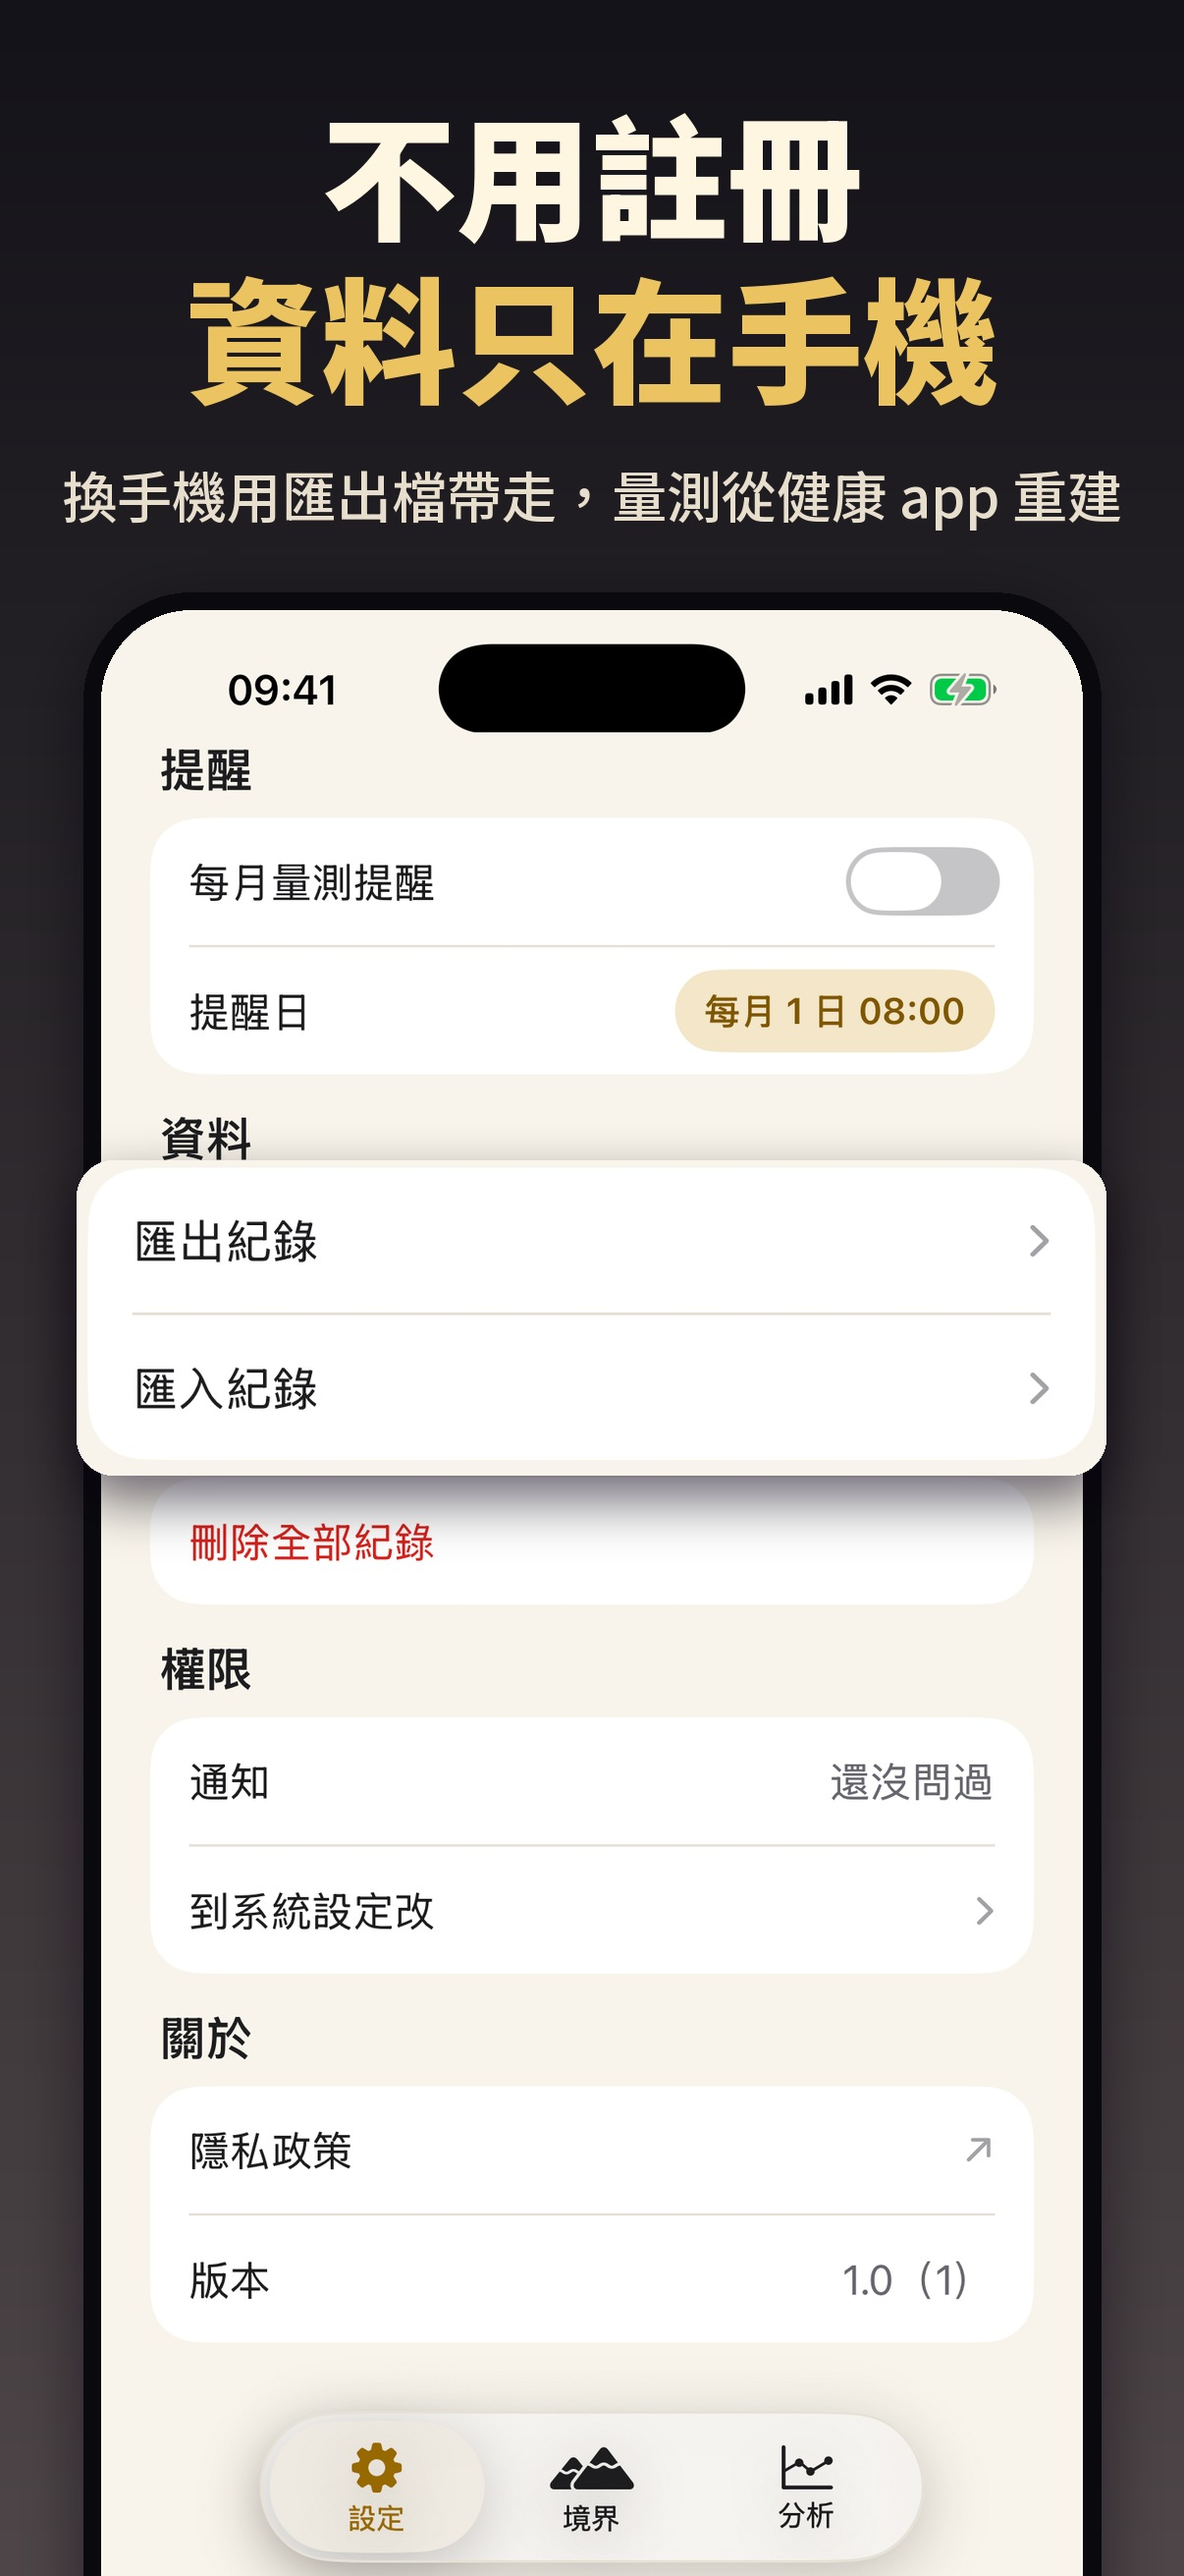
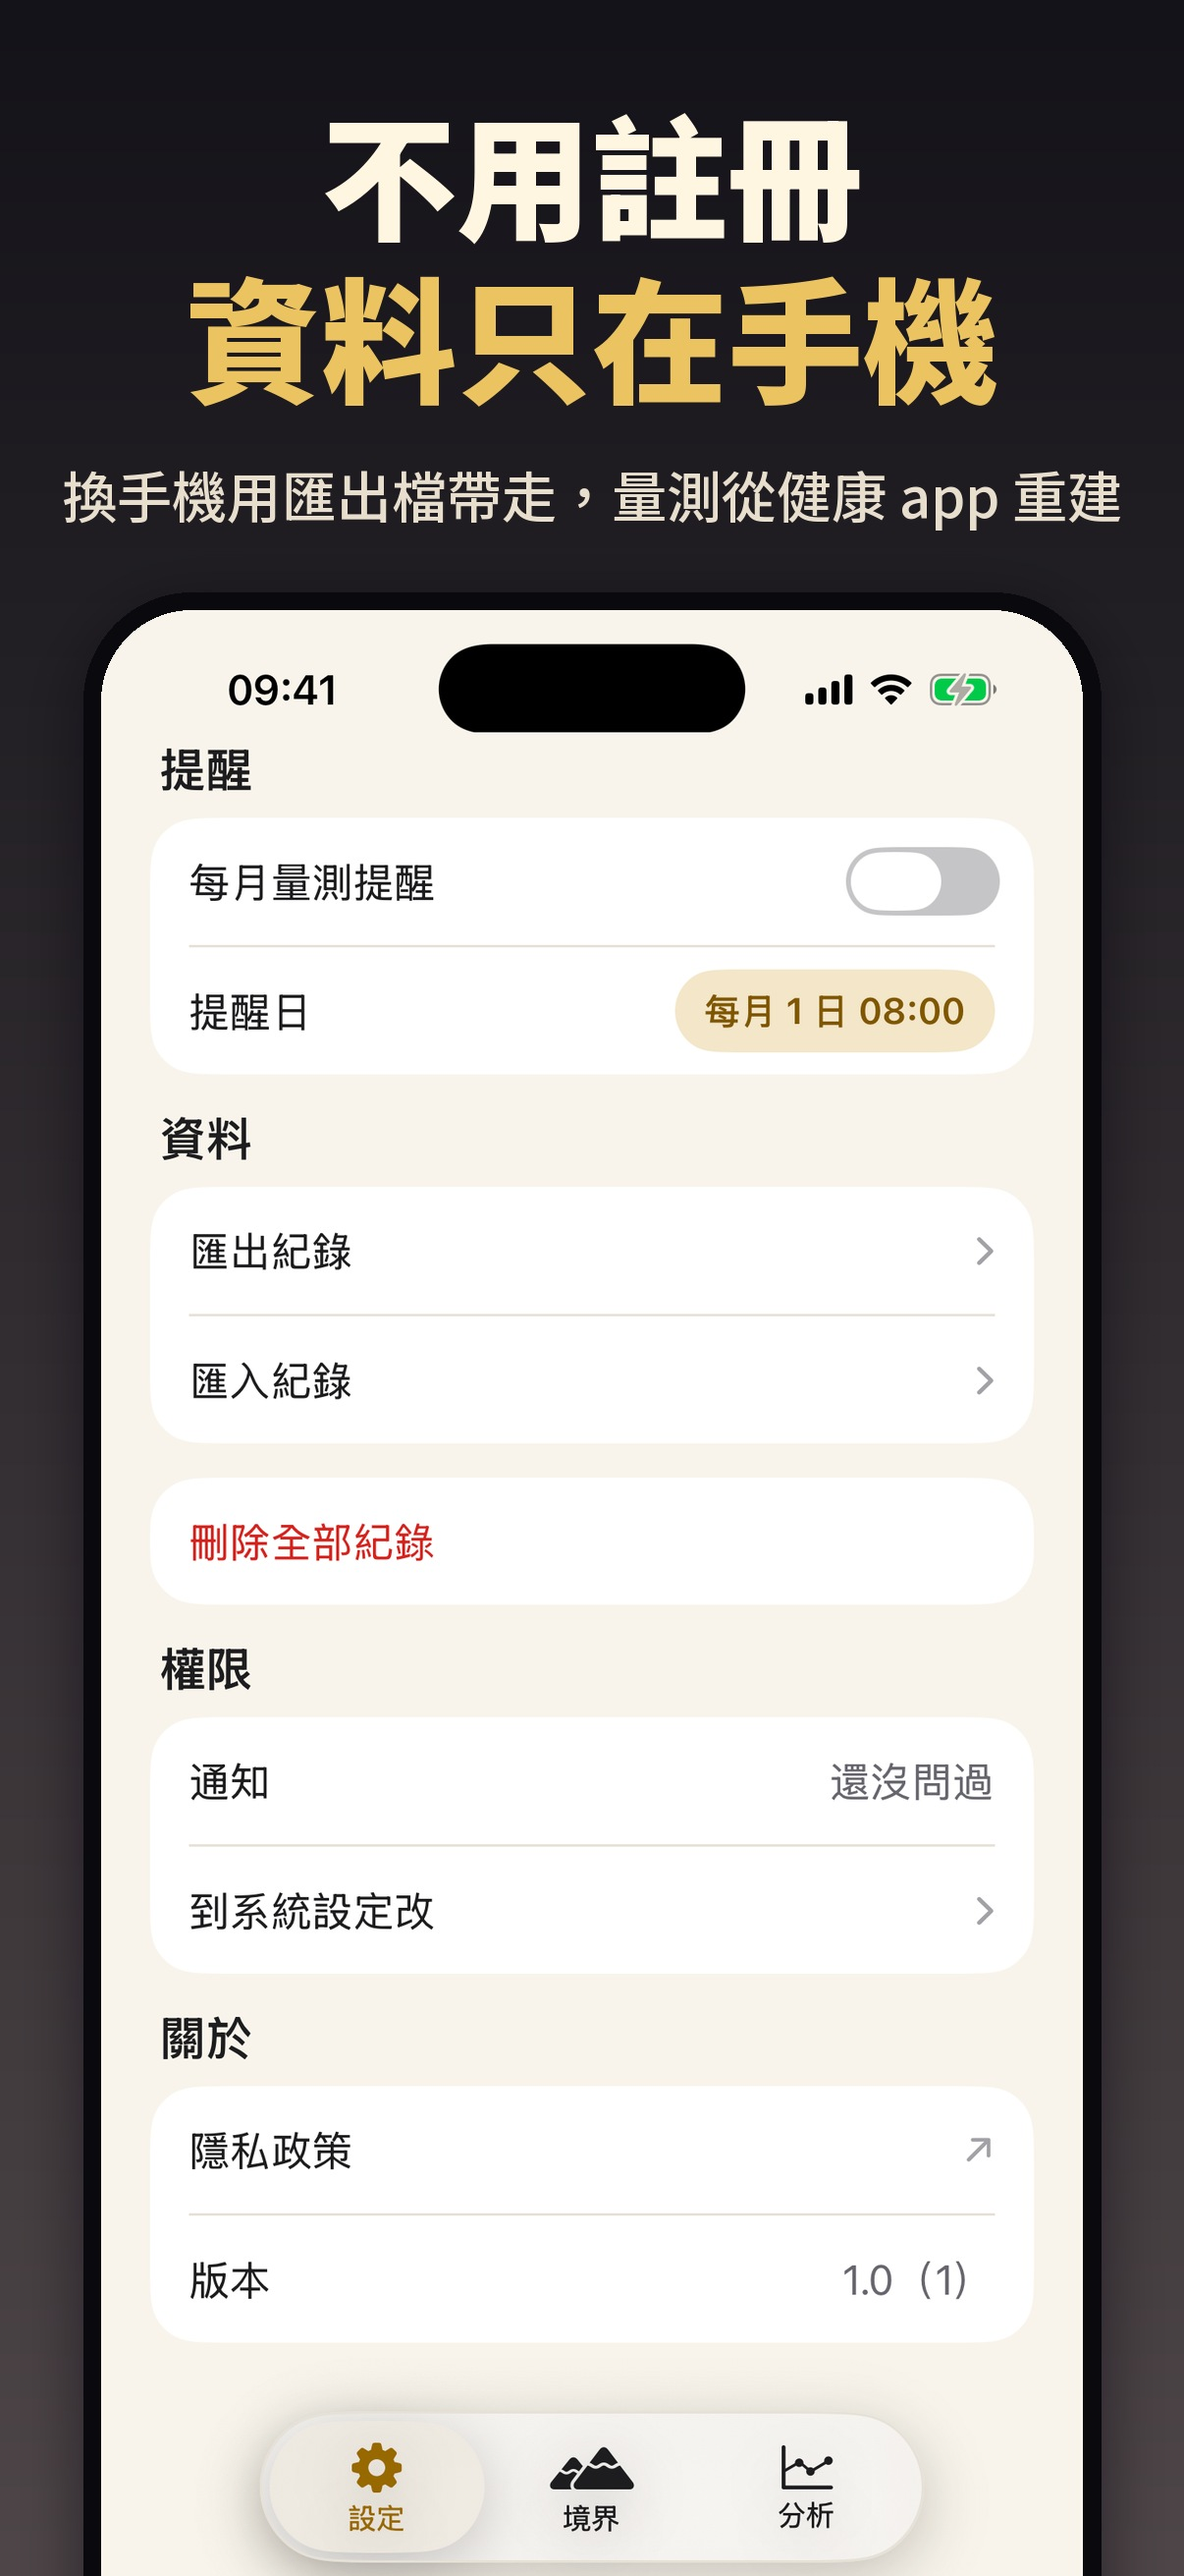
[上架] 截圖第二輪：浮出只留第 3、4 張，第 1 張手機縮小露出境界名，第 2 張兩側畫震動波浪

Changed region(s): [[0.0614, 0.4325, 0.9511, 0.6178], [0.1227, 0.4634, 0.3068, 0.4943]]

diff --git a/.vibe/tools/store_shots.py b/.vibe/tools/store_shots.py
@@ -31,25 +31,24 @@ SIZES = {"6.3": (1206, 2622), "6.9": (1320, 2868)}
 PAID = "付費造型"
 
 # name 檔名｜raw 真機截圖｜title 大標（兩行，第二行金色）｜sub 描述句｜badge 小標｜top 手機上緣（1206 寬時的 y）
-# 2026-11-27 多米說太醜、重點不凸顯（參考茄記、蒜日子、豆鍵）：每張除了慶祝都用 pop 把要講的那塊放大浮出來
+# 2026-11-27 多米說太醜、重點不凸顯（參考茄記、蒜日子、豆鍵）。第二輪他說不用每張都浮，必要的就好：
+# 只留第 3、4 張（標題講的就是那個數字）。第 1 張手機縮小露出境界名那行字；第 2 張兩側畫震動波浪
+# phone 手機畫面多寬（1206 寬時，預設 1000）｜shake 手機兩側畫震動波浪，值是波浪中心的 y（1206 寬時）
 # pop 把截圖裡的一塊放大、跳出手機外：(x0, y0, x1, y1, 倍率, 圓角)，座標是真機截圖上的像素｜ring 圈出一顆鈕 (x, y, 半徑)
 SHOTS = [
     dict(name="01-realm", raw="1-realm.png", hero=True, title=["練到哪一境"], sub="量一次就知道",
-         pills=["不用註冊", "男女各一套標準", "健康 app 自動帶入"]),
+         pills=["不用註冊", "男女各一套標準", "健康 app 自動帶入"], phone=860),
     dict(name="02-celebration", raw="2-celebration.png", title=["突破那一刻", "手機會震一下"],
-         sub="第一次入道、升一期、跨大境界，都有全螢幕慶祝"),
+         sub="第一次入道、升一期、跨大境界，都有全螢幕慶祝",
+         phone=880, shake=1150),
     dict(name="03-next", raw="3-next-stage.png", title=["下一期", "還差幾公斤肌肉"], sub="用身高校正過的 FFMI 算，不只看體重",
          pop=(48, 750, 1158, 1050, 1.14, 40)),
     dict(name="04-unstable", raw="5-unstable.png", title=["體脂還偏高", "照樣算給你看"], sub="標「根基不穩」，告訴你還差幾 % 就生效",
          pop=(48, 1490, 1158, 1772, 1.14, 40)),
-    dict(name="05-log", raw="6-log-lift.png", title=["練完記四格", "不用填一堆"], sub="功法、重量、次數、組數，記完就算等級",
-         pop=(48, 1900, 1158, 2100, 1.16, 40)),
-    dict(name="06-moves", raw="7-moves.png", title=["十二門功法", "各有等級"], sub="深蹲叫坐馬樁、硬舉叫拔山式，從未入門練到化境",
-         pop=(50, 1625, 595, 2200, 1.4, 48)),
-    dict(name="07-data", raw="8-data.png", title=["不用註冊", "資料只在手機"], sub="換手機用匯出檔帶走，量測從健康 app 重建",
-         pop=(48, 700, 1158, 1040, 1.14, 40)),
-    dict(name="08-styles", raw="10-styles.png", title=["十一種造型", "換一種畫風"], sub="水墨、鎏金、青花瓷，境界碑和慶祝畫面跟著換",
-         pop=(48, 1582, 1158, 2032, 1.14, 40)),
+    dict(name="05-log", raw="6-log-lift.png", title=["練完記四格", "不用填一堆"], sub="功法、重量、次數、組數，記完就算等級"),
+    dict(name="06-moves", raw="7-moves.png", title=["十二門功法", "各有等級"], sub="深蹲叫坐馬樁、硬舉叫拔山式，從未入門練到化境"),
+    dict(name="07-data", raw="8-data.png", title=["不用註冊", "資料只在手機"], sub="換手機用匯出檔帶走，量測從健康 app 重建"),
+    dict(name="08-styles", raw="10-styles.png", title=["十一種造型", "換一種畫風"], sub="水墨、鎏金、青花瓷，境界碑和慶祝畫面跟著換"),
     # 2026-11-27 Apple 以 2.3.7 退件：截圖不能寫價格，「免費」「付費」也算。原本副標「原版免費。記錄、算境界全部免費，
     # 付費的只有造型」加一顆「付費造型」標，兩個都拿掉。要講免費請寫在描述裡（Apple 退件信建議的）。
 ]
@@ -127,7 +126,28 @@ def shadow(im, box, radius, blur, alpha=130, dy=18):
     return Image.alpha_composite(im.convert("RGBA"), sh.filter(ImageFilter.GaussianBlur(blur))).convert("RGB")
 
 
-def compose(size, raw, title, sub, badge=None, top=None, ring=None, pop=None, hero=False, pills=None, name=None):
+def waves(im, w, left, right, cy, k):
+    """手機兩側各三條直的波浪線，代表在震（多米給的參考是頸掛風扇兩側的藍色波浪）。內側那條最長。"""
+    import math
+    d = ImageDraw.Draw(im)
+    gap = (left - 0) / 4
+    for i, length in enumerate((300, 240, 180)):
+        for side in (-1, 1):
+            cx = left - gap * (i + 1) if side < 0 else right + gap * (i + 1)
+            pts = []
+            for j in range(61):
+                t = j / 60
+                yy = cy - length * k / 2 + t * length * k
+                xx = cx + 13 * k * math.sin(t * 2 * math.pi * length / 120)
+                pts.append((xx, yy))
+            d.line(pts, fill=GOLD, width=int(10 * k), joint="curve")
+            for px, py in (pts[0], pts[-1]):
+                rr = 5 * k
+                d.ellipse([px - rr, py - rr, px + rr, py + rr], fill=GOLD)
+
+
+def compose(size, raw, title, sub, badge=None, top=None, ring=None, pop=None, hero=False, pills=None, name=None,
+            phone=1000, shake=None):
     w, h = size
     k = w / 1206
     im = gradient(size)
@@ -161,7 +181,7 @@ def compose(size, raw, title, sub, badge=None, top=None, ring=None, pop=None, he
             y += 120 * k
         top = top or (y / k + 40)
     shot = Image.open(os.path.join(ROOT, RAW, raw)).convert("RGB")
-    sc = 1000 * k / shot.width            # 手機畫面放大到 1000 寬，底部出血
+    sc = phone * k / shot.width           # 手機畫面放大到 phone 寬（預設 1000），底部出血
     pw, ph = int(shot.width * sc), int(shot.height * sc)
     x, y = (w - pw) // 2, int(top * k)
     r, b = int(92 * k), int(18 * k)
@@ -169,6 +189,8 @@ def compose(size, raw, title, sub, badge=None, top=None, ring=None, pop=None, he
     ImageDraw.Draw(im).rounded_rectangle([x - b, y - b, x + pw + b, y + ph + b], r + b, fill=BEZEL)
     im.paste(shot.resize((pw, ph), Image.LANCZOS), (x, y), mask((pw, ph), r))
     LAST_RECT[:] = [x, y, pw, ph, r, sc]  # 給預覽影片用：手機畫面的位置
+    if shake:
+        waves(im, w, x - b, x + pw + b, shake * k, k)
     if pop:
         # 把重點那一塊放大，疊在原位置上，超出手機邊框
         x0, y0, x1, y1, zoom, rad = pop
